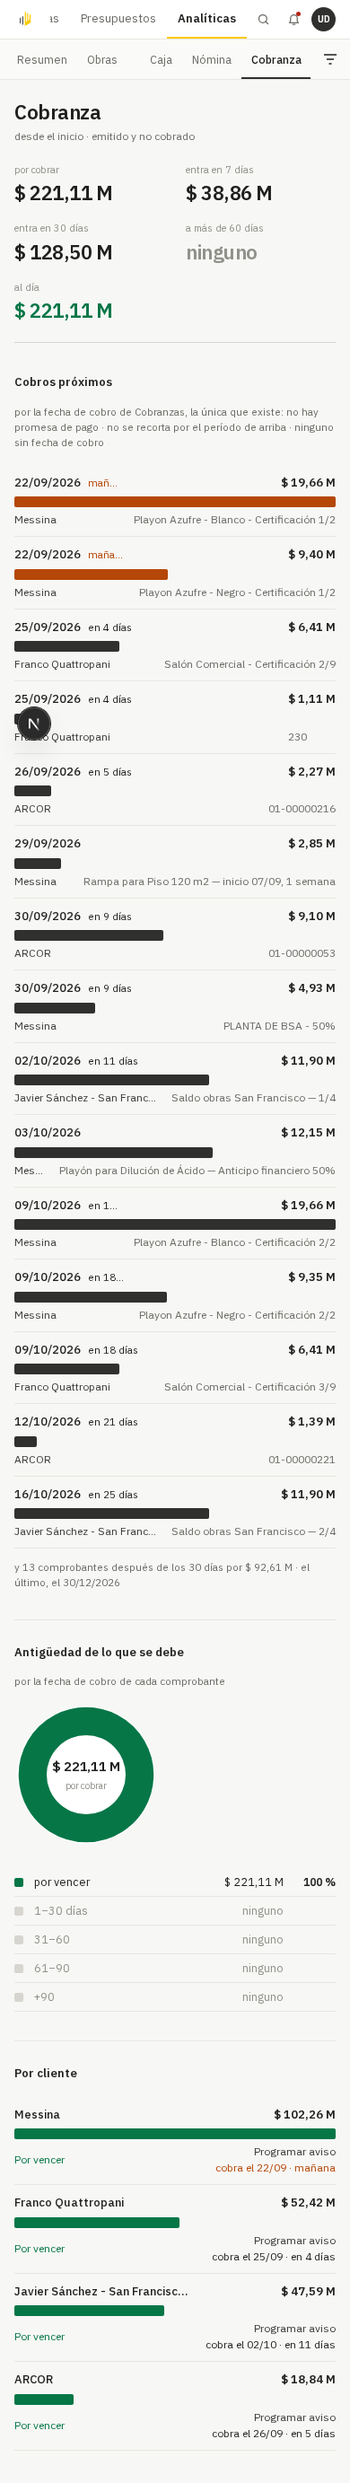
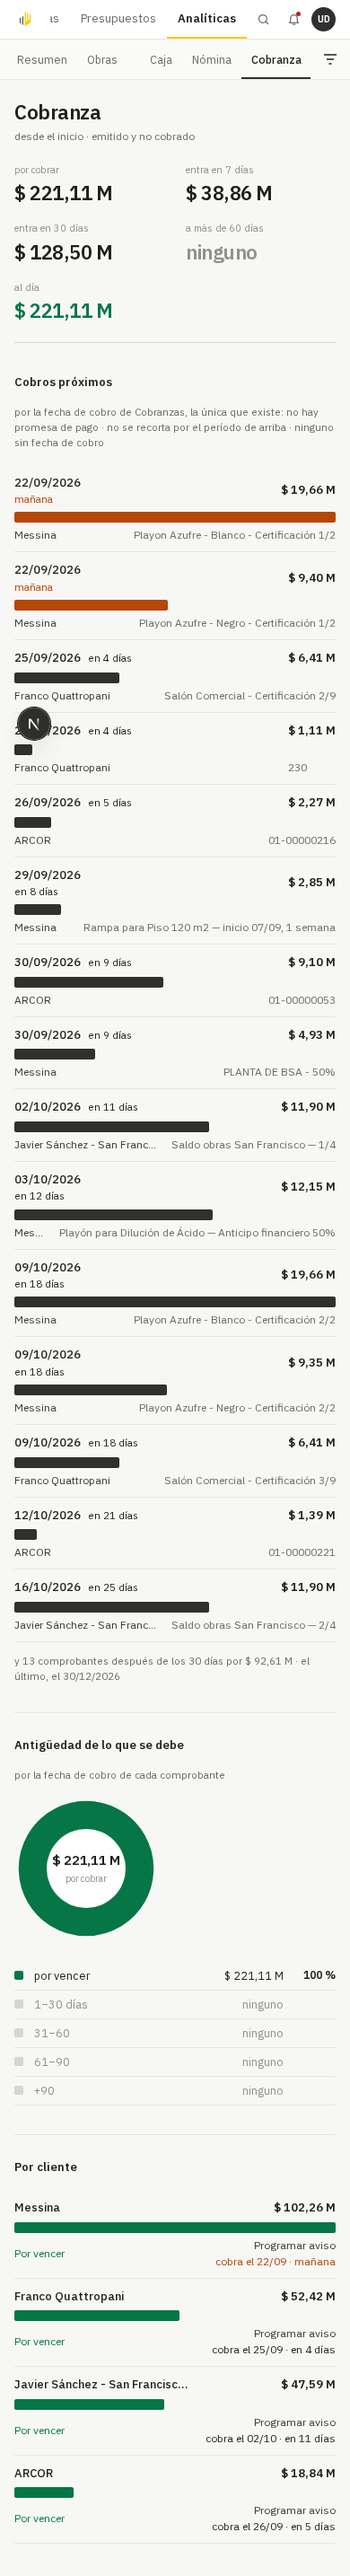
cobranza en el teléfono: «mañana» no se corta — el tiempo baja una línea en vez de truncarse
En 390 px la primera celda de la agenda mostraba «mañ…»: una palabra cortada no es una palabra, y
justamente el día más urgente era el que se leía peor. Ahora el rótulo de tiempo envuelve debajo de
la fecha. Verificado en el navegador a 390 px: sin desplazamiento de costado (captura
qa-shots/cobranza-2109-390.png, `tests/analiticas-cobranza.spec.ts` verde).

diff --git a/echegaray-os/src/features/analiticas/components/VistasEmpresa.tsx b/echegaray-os/src/features/analiticas/components/VistasEmpresa.tsx
@@ -187,9 +187,10 @@ function CobrosProximos({ a, agenda, hoy }: { a: AgendaDeCobro; agenda: unknown[
           const tono = tonoDeCobro(f.dias, f.vencido)
           return (
             <div key={f.id} data-testid="cobranza-proximo" className="grid grid-cols-[minmax(0,1fr)_auto] items-center gap-x-4 gap-y-1.5 border-b border-line py-2.5 hover:bg-surface-quiet lg:h-11 lg:grid-cols-[150px_110px_minmax(0,1fr)_150px_170px] lg:gap-6 lg:py-0">
-              <div className="flex min-w-0 items-baseline gap-2">
+              {/* EN EL TELÉFONO EL TIEMPO BAJA UNA LÍNEA antes que truncarse: «mañ…» no es una palabra. */}
+              <div className="flex min-w-0 flex-wrap items-baseline gap-x-2">
                 <span className="whitespace-nowrap text-[13px] font-medium tabular-nums text-ink">{diaMesAnio(f.fecha)}</span>
-                <span className={`truncate text-[11.5px] ${tono.texto}`}>{cuando(f.dias)}</span>
+                <span className={`whitespace-nowrap text-[11.5px] ${tono.texto}`}>{cuando(f.dias)}</span>
               </div>
               <div className="whitespace-nowrap text-right text-[13px] font-semibold tabular-nums text-ink">{millones(f.monto)}</div>
               <div className="col-span-2 row-start-2 h-3 lg:col-span-1 lg:row-auto"><div className={`h-full rounded-[2px] ${tono.fondo}`} style={{ width: ancho(f.monto, max) }} /></div>
